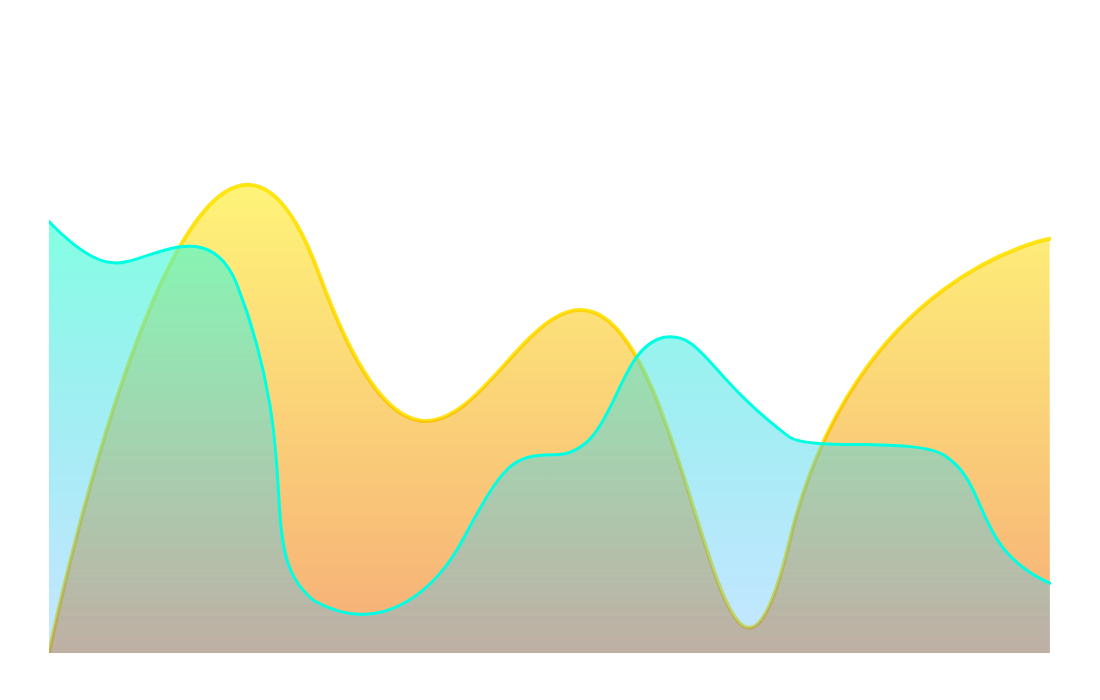
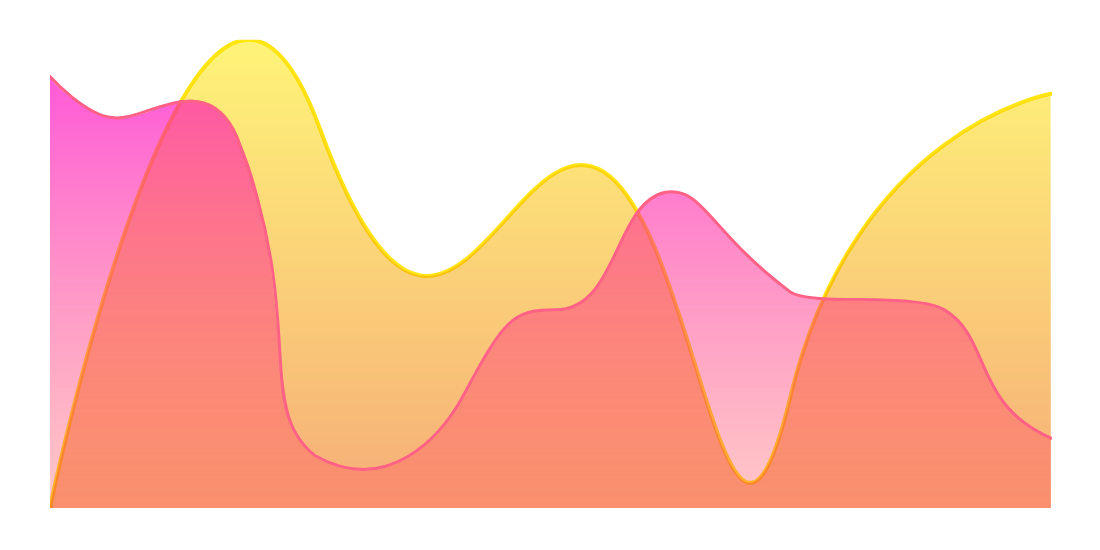
updates

diff --git a/current.html b/current.html
@@ -60,6 +60,22 @@ permalink: /current.html
           <td>03/15/2020</td>
           <td>Yes</td>
         </tr>
+        <tr>
+          <th scope="row">2</th>
+          <td> <a href="">Coming soon.</a></td>
+          <td></td>
+          <td>/td>
+          <td></td>
+          <td></td>
+        </tr>
+        <tr>
+          <th scope="row">3</th>
+          <td> <a href="">Coming soon.</a></td>
+          <td></td>
+          <td>/td>
+          <td></td>
+          <td></td>
+        </tr>
       </tbody>
     </table>
 

diff --git a/index.html b/index.html
@@ -38,6 +38,9 @@
     </nav>
 
     <h1 class="display-3 text-center text-white" style="padding-top: 120px; padding-bottom: 120px;">Our industry is changing.</h1>
+    <div class="text-center mx-auto">
+      <img src="images/graph.png" type="image/png" width="25%">
+    </div>
     <div class="content-heading text-white text-center lead" style="padding-bottom: 120px;">
       <h3>We provide the insights you need to make the most of these changes.</h3>
     </div>
